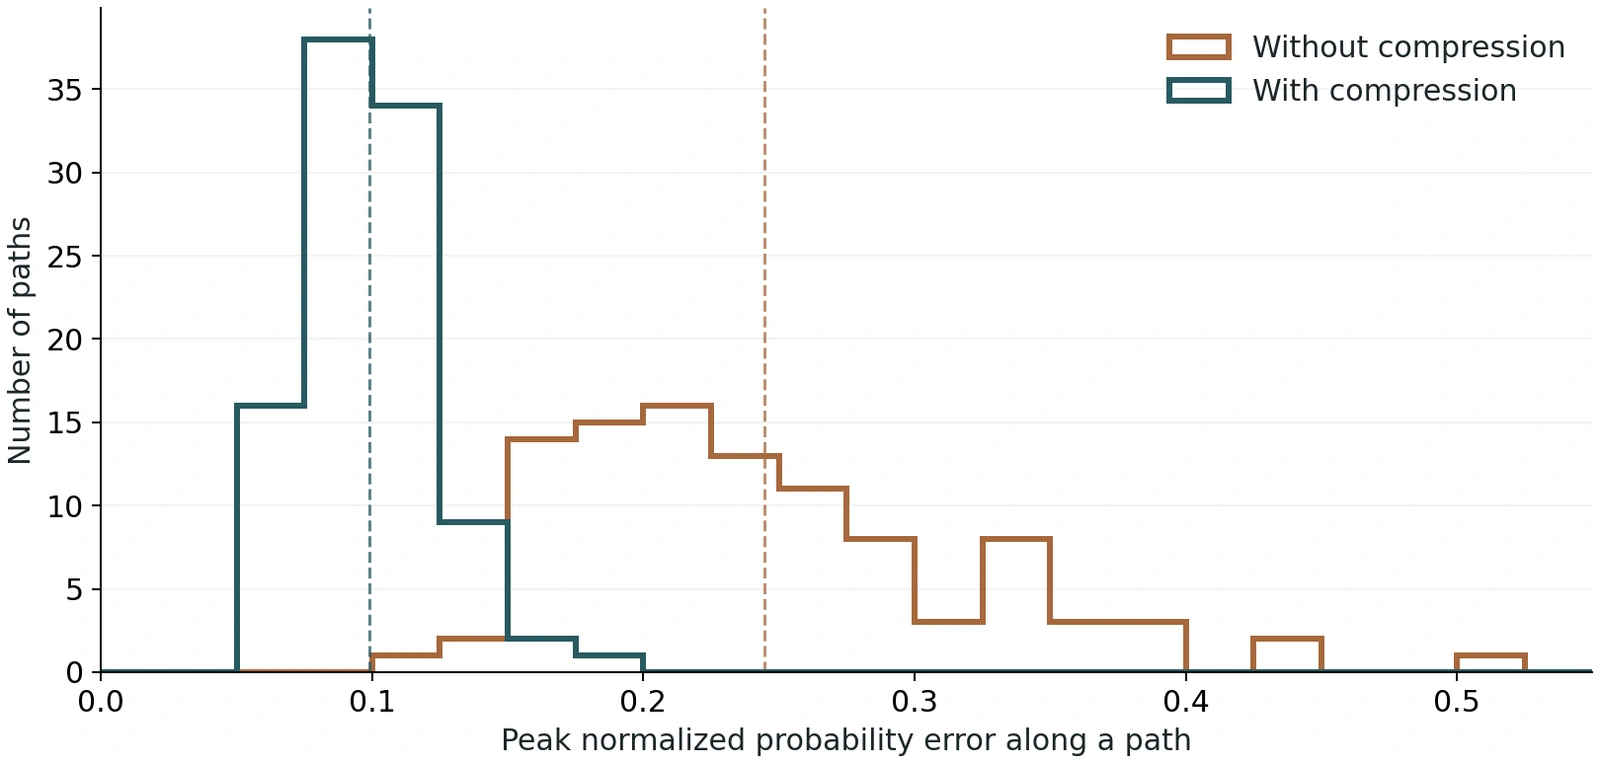
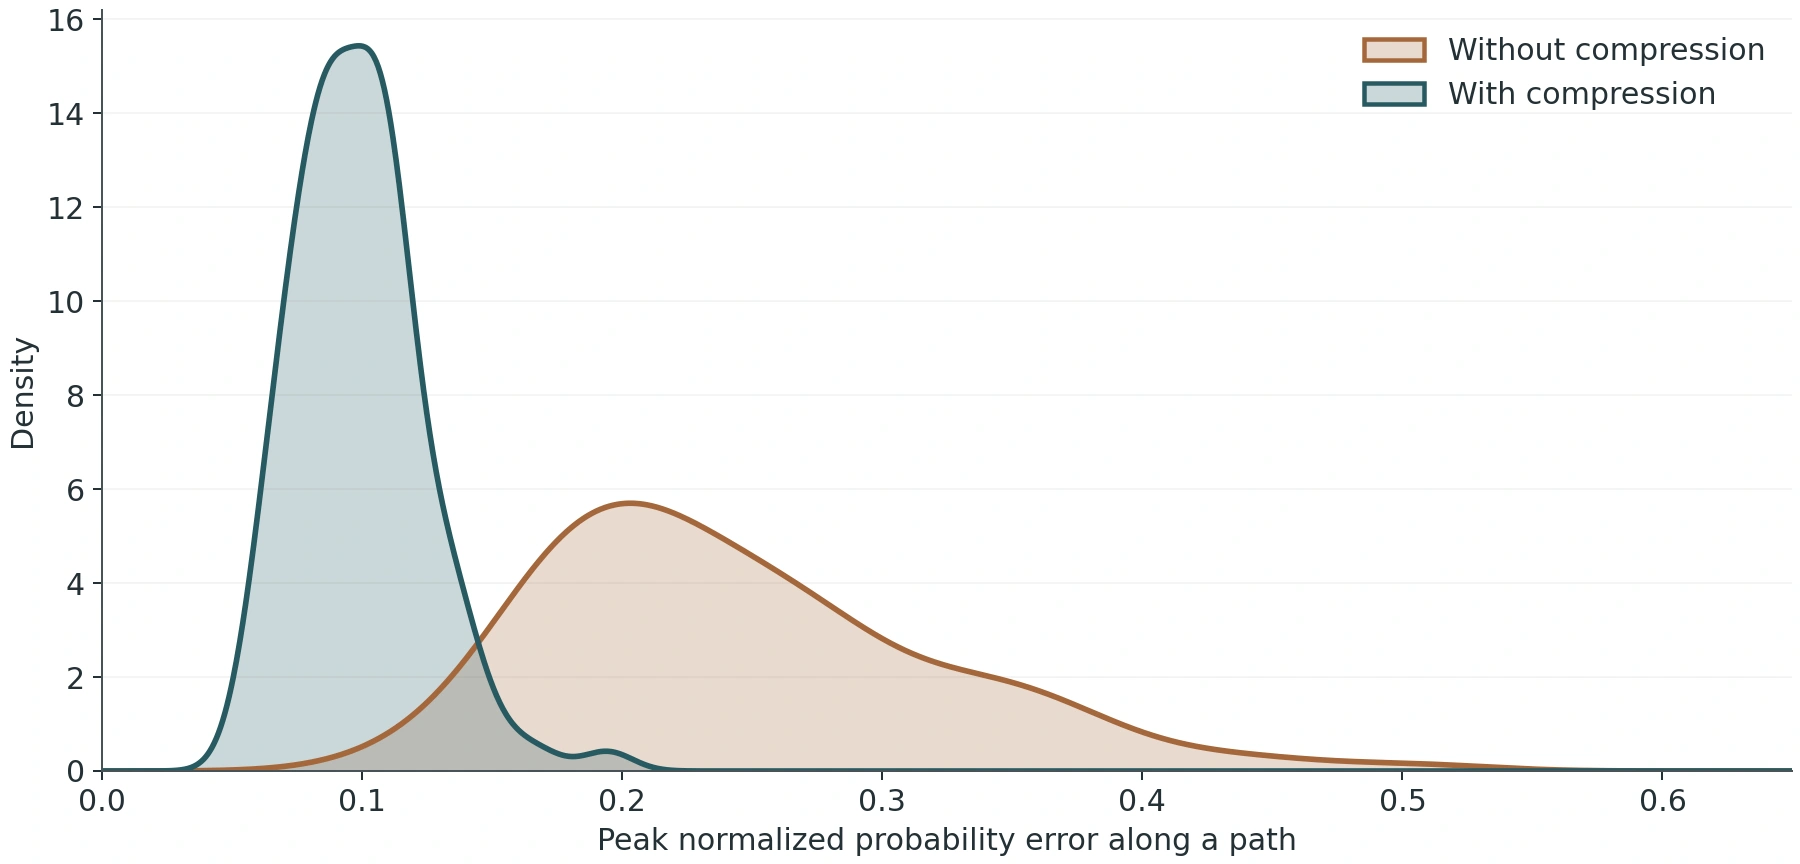
Refresh Galaxy Zoo figure and smooth Logic VAE error distributions
Use the revised author-supplied Galaxy Zoo panel and filled kernel density estimates of the original interpolation peak errors. Preserve the experimental values and include a reproducible plotting script.

diff --git a/tools/plot_logic_error_density.py b/tools/plot_logic_error_density.py
@@ -1,0 +1,59 @@
+"""Render interpolation peak-error densities from the original experimental values.
+
+Run from any directory with NumPy, SciPy, Matplotlib and Pillow installed.
+"""
+from pathlib import Path
+import io
+import json
+
+import matplotlib
+matplotlib.use("Agg")
+import matplotlib.pyplot as plt
+from matplotlib.patches import Patch
+import numpy as np
+from PIL import Image
+from scipy.stats import gaussian_kde
+
+ASSETS = Path(__file__).resolve().parents[1] / "assets/ai/logic-vae"
+data = json.loads((ASSETS / "peak-errors.json").read_text())
+series = [
+    ("zero", "Without compression", "#a4673b"),
+    ("full", "With compression", "#285a61"),
+]
+estimates = []
+upper = 0.0
+for key, label, colour in series:
+    values = np.asarray(data[key], dtype=float)
+    kde = gaussian_kde(values, bw_method="scott")
+    bandwidth = float(np.sqrt(kde.covariance[0, 0]))
+    upper = max(upper, float(values.max()) + 4 * bandwidth)
+    estimates.append((kde, label, colour))
+x = np.linspace(0, np.ceil(upper * 20) / 20, 1600)
+
+plt.rcParams.update({
+    "font.family": "DejaVu Sans", "font.size": 12,
+    "text.color": "#243035", "axes.labelcolor": "#243035",
+    "xtick.color": "#243035", "ytick.color": "#243035",
+    "axes.spines.top": False, "axes.spines.right": False,
+    "axes.edgecolor": "#485358", "axes.linewidth": 0.8,
+})
+fig, ax = plt.subplots(figsize=(10, 4.8), layout="constrained")
+for kde, label, colour in estimates:
+    # Reflect at zero so smoothing respects nonnegative probability errors.
+    density = kde(x) + kde(-x)
+    ax.fill_between(x, density, color=colour, alpha=0.24, linewidth=0)
+    ax.plot(x, density, color=colour, linewidth=2.25)
+ax.set(xlim=(0, x[-1]), ylim=(0, None),
+       xlabel="Peak normalized probability error along a path", ylabel="Density")
+ax.grid(axis="y", alpha=0.15, linewidth=0.7)
+ax.set_axisbelow(True)
+ax.legend(handles=[Patch(facecolor=(*matplotlib.colors.to_rgb(c), 0.24),
+                             edgecolor=c, linewidth=1.8, label=label)
+                   for _, label, c in series],
+          loc="upper right", frameon=False)
+png = io.BytesIO()
+fig.savefig(png, format="png", dpi=180, facecolor="white")
+plt.close(fig)
+png.seek(0)
+Image.open(png).convert("RGB").save(ASSETS / "error-distribution.webp",
+                                     quality=95, method=6)
